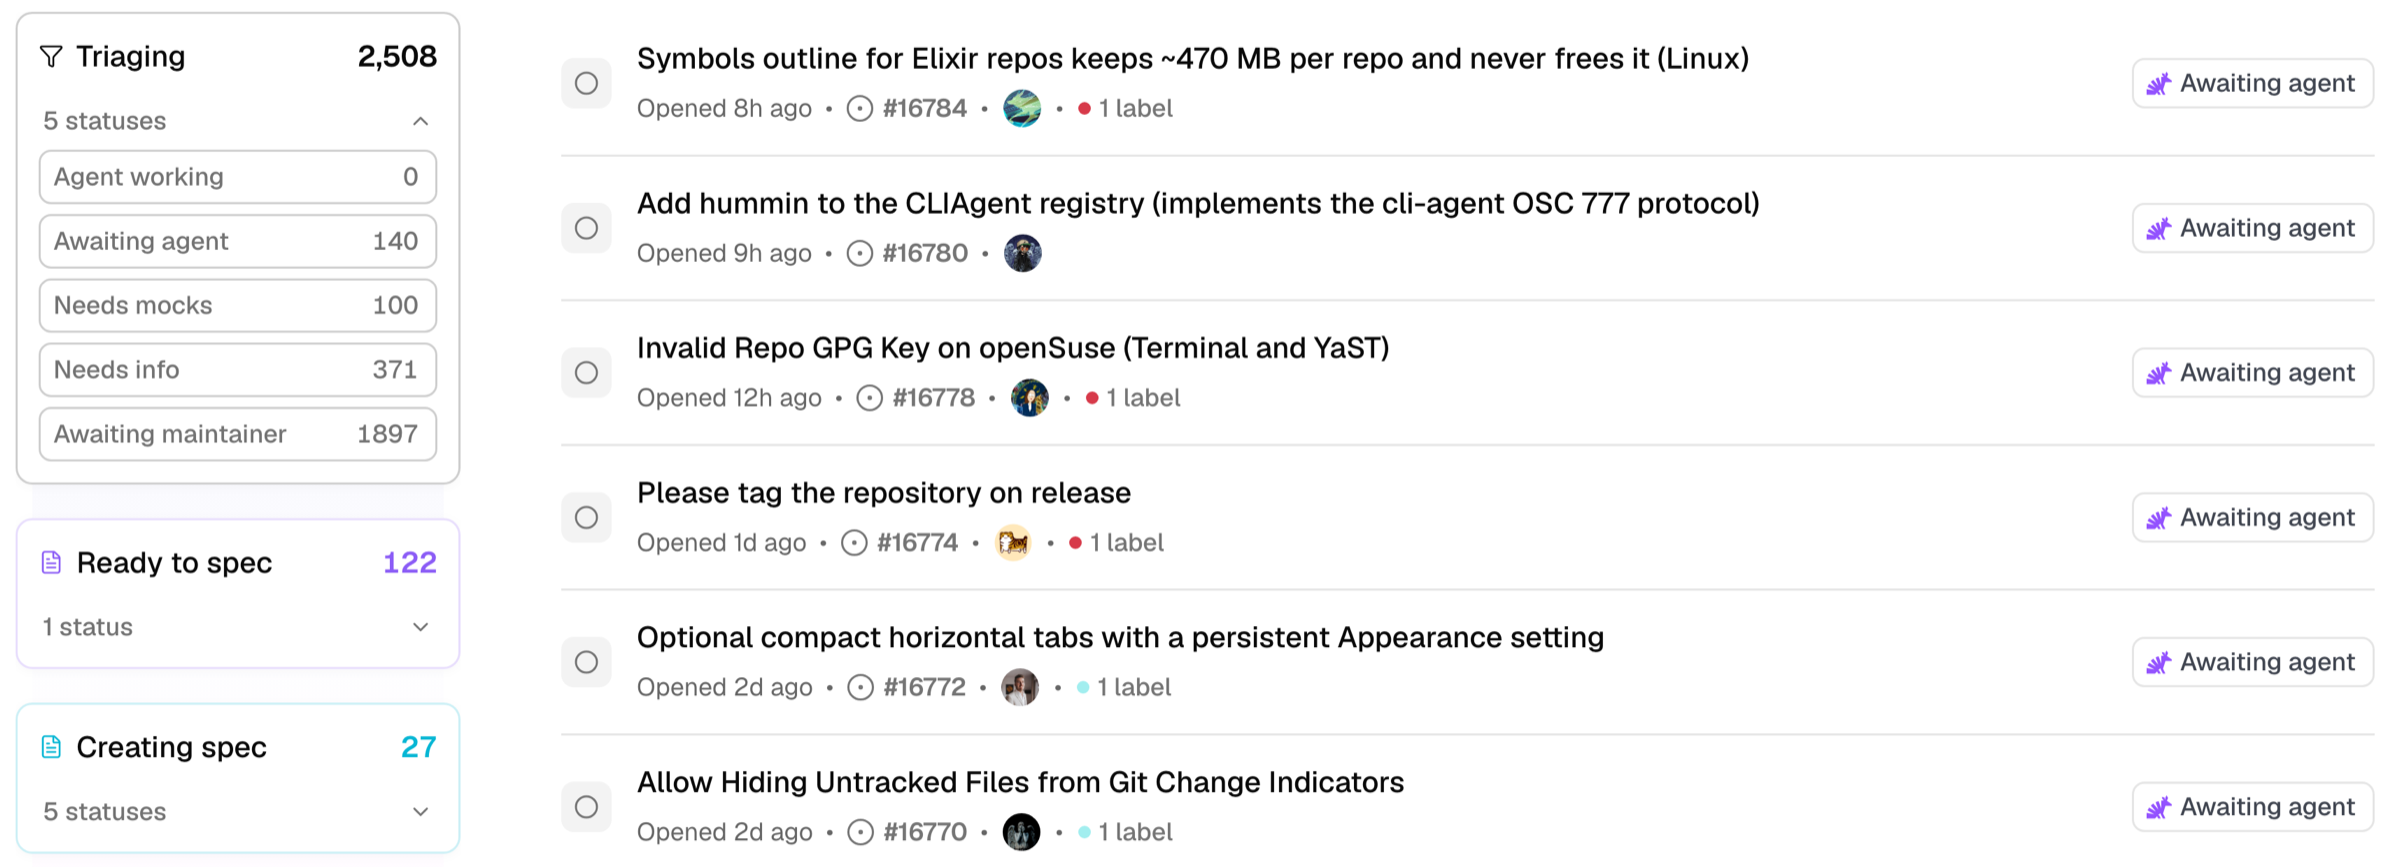
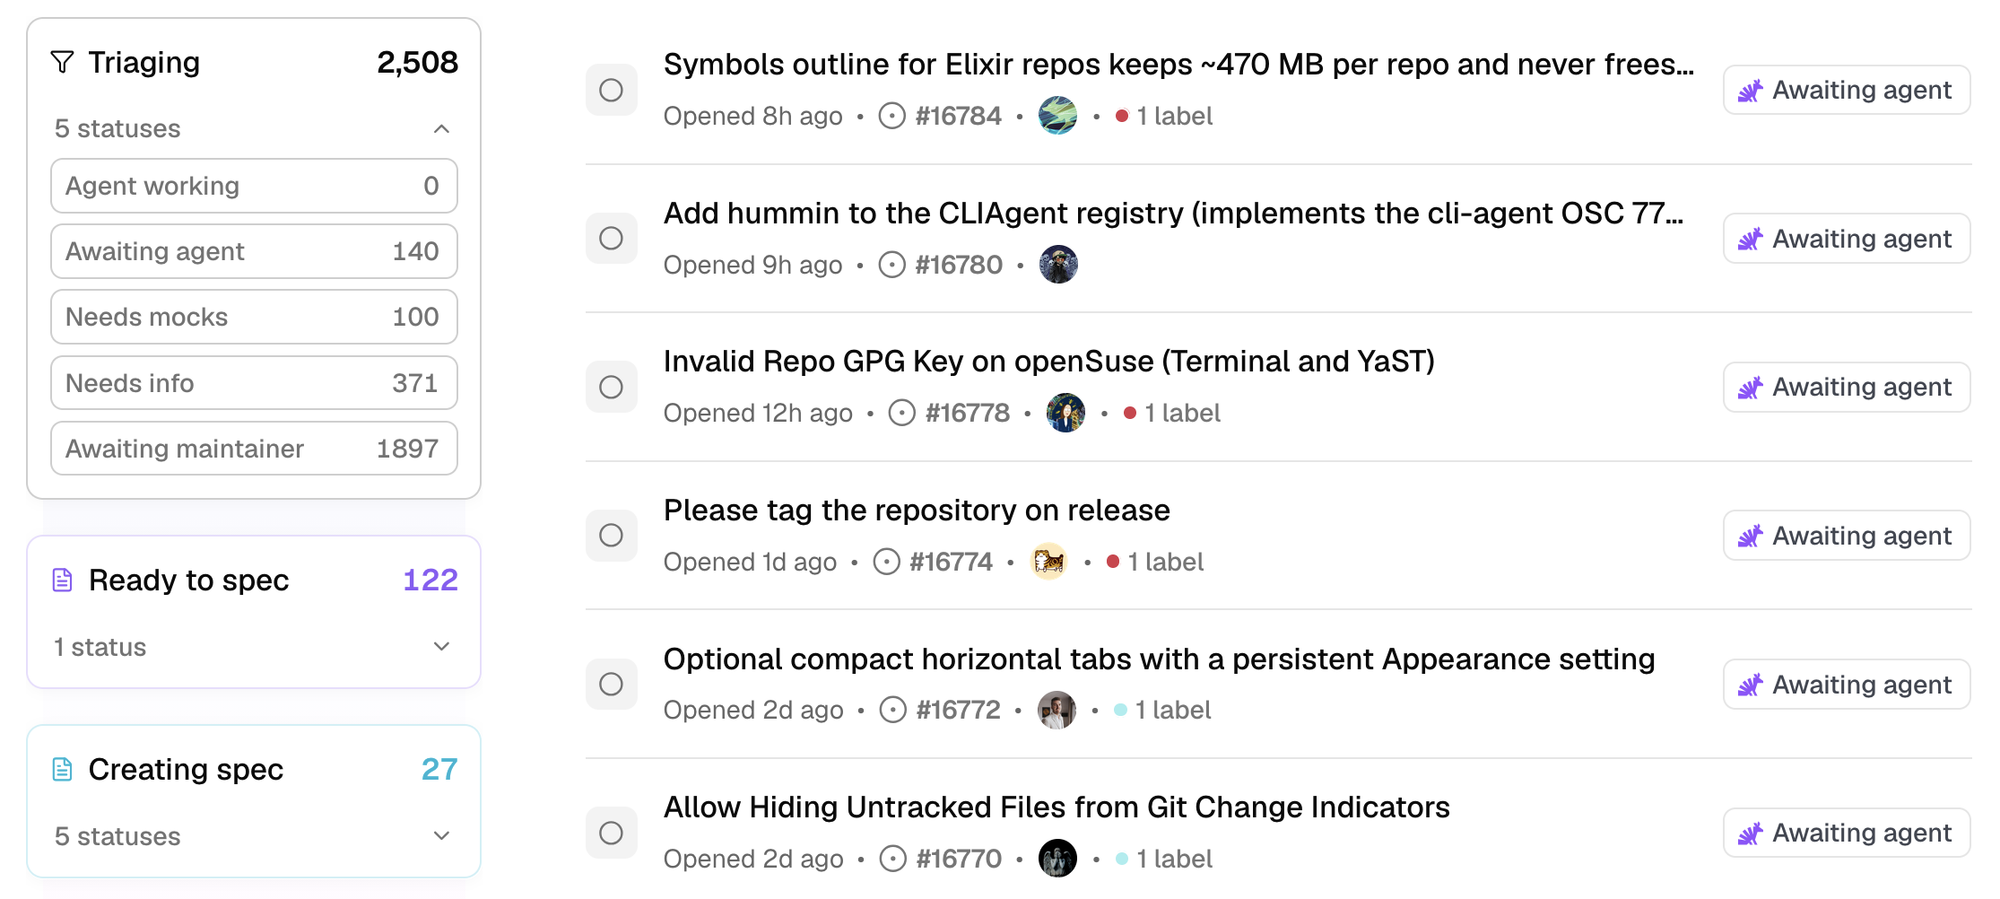
Use a sharper Warp screenshot and update its caption

diff --git a/workshop.html b/workshop.html
@@ -368,7 +368,7 @@
       <h2 class="r" style="--i:1">Slik jobber Warp</h2>
       <p class="lead r" style="--i:2;max-width:none">Warp viser fabrikken sin offentlig. Hver issue går gjennom triage, spec, implementering og review, og under triage ser du om saken venter på agenten eller på et menneske.</p>
       <a class="r" style="--i:3;display:block;margin-top:24px" href="https://build.warp.dev/" target="_blank"><img class="shot" style="width:auto;max-width:100%;max-height:40vh" src="bilder/warp-build.png" alt="Skjermbilde av build.warp.dev. Triaging har statusene Agent working, Awaiting agent, Needs mocks, Needs info og Awaiting maintainer, og under ligger Ready to spec og Creating spec. Til høyre står issues som venter på agenten." /></a>
-      <p class="hint-line r" style="--i:4">9. november ventet 1 897 saker på en maintainer og 137 på agenten, så den største køen er mennesker. Kilde: <a href="https://build.warp.dev/" target="_blank">build.warp.dev</a>. Klikk på bildet for å se tallene slik de er nå.</p>
+      <p class="hint-line r" style="--i:4">10. november ventet 1 897 saker på en maintainer og 140 på agenten, så den største køen er mennesker. Kilde: <a href="https://build.warp.dev/" target="_blank">build.warp.dev</a>. Klikk på bildet for å se tallene slik de er nå.</p>
     </div>
   </section>
 
